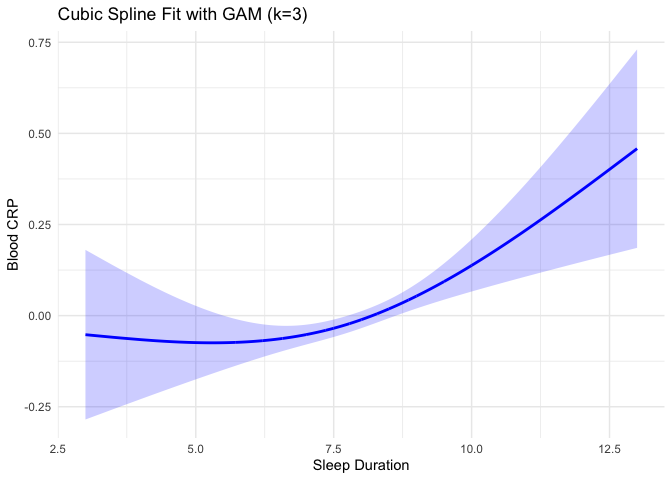
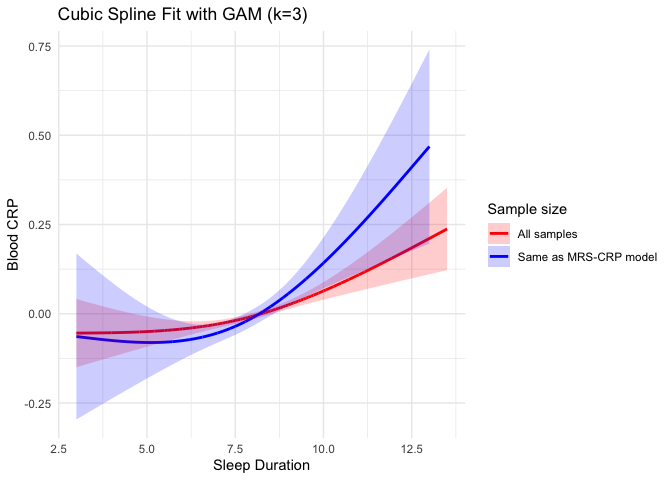
update

diff --git a/Secondary-Analysis.html b/Secondary-Analysis.html
@@ -808,11 +808,15 @@ names(ev5)[2] &lt;- &#39;SOL_ID&#39;
 sdata&lt;-merge(sdata,ev5[,c(2,5:9)],by=&#39;SOL_ID&#39;)
 sdata&lt;-sdata[complete.cases(sdata$SLPDUR),]
 sdata&lt;-sdata[complete.cases(sdata$EV1),]
-sdata&lt;-sdata[complete.cases(sdata$BMI),]</code></pre>
+sdata&lt;-sdata[complete.cases(sdata$BMI),]
+
+sdata.all &lt;- read.csv(&#39;~/OneDrive - Beth Israel Lahey Health/2023_methCRP/Data/20240604_phen_all.csv&#39;)
+sdata.all&lt;-sdata.all[complete.cases(sdata.all$SLPDUR),]
+sdata.all&lt;-sdata.all[complete.cases(sdata.all$BMI),]</code></pre>
 </div>
 <div id="fit-model" class="section level3">
 <h3>Fit model</h3>
-<pre class="r"><code>####### Blood CRP
+<pre class="r"><code>####### MRS CRP
 mrs_gam &lt;- mgcv::gam(Zmrs_HEnet ~ s(SLPDUR,bs=&#39;cr&#39;, k=3) +AGE + GENDER + BMI + CENTER + BKGRD1_C7+ EV1 + EV2 + EV3 + EV4 + EV5, data=sdata)
 summary(mrs_gam)</code></pre>
 <pre><code>## 
@@ -880,7 +884,7 @@ preds_df &lt;- data.frame(SLPDUR = sdata$SLPDUR,
                        upr = preds.all$fit[,11] + 1.96 * preds.all$se.fit[,11])
 #write.csv(preds_df,&#39;~/OneDrive - Beth Israel Lahey Health/2023_methCRP/Results/20240610_mrs_spline.csv&#39;,row.names = F)
 
-bld_gam &lt;- mgcv::gam(lgCrp ~ s(SLPDUR,bs=&#39;cr&#39;, k=3) +AGE + GENDER + BMI + CENTER + BKGRD1_C7+ EV1 + EV2 + EV3 + EV4 + EV5, data=sdata)
+bld_gam &lt;- mgcv::gam(lgCrp ~ s(SLPDUR,bs=&#39;cr&#39;, k=3) +AGE + GENDER + BMI + CENTER + BKGRD1_C7, data=sdata)
 summary(bld_gam)</code></pre>
 <pre><code>## 
 ## Family: gaussian 
@@ -888,45 +892,110 @@ summary(bld_gam)</code></pre>
 ## 
 ## Formula:
 ## lgCrp ~ s(SLPDUR, bs = &quot;cr&quot;, k = 3) + AGE + GENDER + BMI + CENTER + 
-##     BKGRD1_C7 + EV1 + EV2 + EV3 + EV4 + EV5
+##     BKGRD1_C7
 ## 
 ## Parametric coefficients:
-##                                        Estimate Std. Error t value Pr(&gt;|t|)    
-## (Intercept)                           -1.218830   0.232258  -5.248 1.69e-07 ***
-## AGE                                   -0.000293   0.002691  -0.109   0.9133    
-## GENDERMale                            -0.341201   0.042977  -7.939 3.28e-15 ***
-## BMI                                    0.075132   0.003645  20.612  &lt; 2e-16 ***
-## CENTERChicago                         -0.095667   0.078697  -1.216   0.2243    
-## CENTERMiami                            0.147357   0.098907   1.490   0.1364    
-## CENTERSan Diego                       -0.115050   0.101003  -1.139   0.2548    
-## BKGRD1_C7Cuban                        -0.071974   0.140078  -0.514   0.6074    
-## BKGRD1_C7Domician                     -0.170872   0.148244  -1.153   0.2492    
-## BKGRD1_C7Mexican                      -0.043418   0.159010  -0.273   0.7848    
-## BKGRD1_C7More than one/Other heritage -0.038858   0.192115  -0.202   0.8397    
-## BKGRD1_C7Puerto Rican                 -0.058241   0.176881  -0.329   0.7420    
-## BKGRD1_C7South American                0.034584   0.133266   0.260   0.7953    
-## EV1                                   -9.351567   4.862933  -1.923   0.0546 .  
-## EV2                                    2.935362   2.515771   1.167   0.2434    
-## EV3                                    0.492921   4.995970   0.099   0.9214    
-## EV4                                   -5.340681   4.718663  -1.132   0.2578    
-## EV5                                   -1.435045   3.405111  -0.421   0.6735    
+##                                         Estimate Std. Error t value Pr(&gt;|t|)
+## (Intercept)                           -1.352e+00  2.133e-01  -6.338 2.84e-10
+## AGE                                    9.346e-05  2.687e-03   0.035   0.9723
+## GENDERMale                            -3.369e-01  4.287e-02  -7.860 6.07e-15
+## BMI                                    7.528e-02  3.629e-03  20.743  &lt; 2e-16
+## CENTERChicago                         -9.632e-02  7.704e-02  -1.250   0.2113
+## CENTERMiami                            1.733e-01  9.428e-02   1.838   0.0662
+## CENTERSan Diego                       -7.898e-02  9.722e-02  -0.812   0.4167
+## BKGRD1_C7Cuban                         7.131e-02  8.842e-02   0.806   0.4201
+## BKGRD1_C7Domician                     -1.808e-03  1.092e-01  -0.017   0.9868
+## BKGRD1_C7Mexican                      -6.191e-03  9.649e-02  -0.064   0.9488
+## BKGRD1_C7More than one/Other heritage  1.244e-01  1.651e-01   0.753   0.4513
+## BKGRD1_C7Puerto Rican                  1.858e-01  9.509e-02   1.954   0.0509
+## BKGRD1_C7South American                8.754e-04  9.906e-02   0.009   0.9929
+##                                          
+## (Intercept)                           ***
+## AGE                                      
+## GENDERMale                            ***
+## BMI                                   ***
+## CENTERChicago                            
+## CENTERMiami                           .  
+## CENTERSan Diego                          
+## BKGRD1_C7Cuban                           
+## BKGRD1_C7Domician                        
+## BKGRD1_C7Mexican                         
+## BKGRD1_C7More than one/Other heritage    
+## BKGRD1_C7Puerto Rican                 .  
+## BKGRD1_C7South American                  
 ## ---
 ## Signif. codes:  0 &#39;***&#39; 0.001 &#39;**&#39; 0.01 &#39;*&#39; 0.05 &#39;.&#39; 0.1 &#39; &#39; 1
 ## 
 ## Approximate significance of smooth terms:
-##             edf Ref.df     F p-value   
-## s(SLPDUR) 1.765  1.945 6.139 0.00147 **
+##             edf Ref.df     F  p-value    
+## s(SLPDUR) 1.764  1.944 6.623 0.000929 ***
 ## ---
 ## Signif. codes:  0 &#39;***&#39; 0.001 &#39;**&#39; 0.01 &#39;*&#39; 0.05 &#39;.&#39; 0.1 &#39; &#39; 1
 ## 
-## R-sq.(adj) =   0.22   Deviance explained = 22.7%
-## GCV = 0.86432  Scale est. = 0.8563    n = 2130</code></pre>
+## R-sq.(adj) =   0.22   Deviance explained = 22.5%
+## GCV =  0.863  Scale est. = 0.85702   n = 2130</code></pre>
 <pre class="r"><code>preds.all &lt;- predict(bld_gam, newdata = sdata, type = &#39;terms&#39;, se.fit = TRUE)
 preds_df &lt;- data.frame(SLPDUR = sdata$SLPDUR, 
-                       fit = preds.all$fit[,11], 
-                       lwr = preds.all$fit[,11] - 1.96 * preds.all$se.fit[,11], 
-                       upr = preds.all$fit[,11] + 1.96 * preds.all$se.fit[,11])
-#write.csv(preds_df,&#39;~/OneDrive - Beth Israel Lahey Health/2023_methCRP/Results/20240610_blood_spline.csv&#39;,row.names = F)</code></pre>
+                       fit = preds.all$fit[,6], 
+                       lwr = preds.all$fit[,6] - 1.96 * preds.all$se.fit[,6], 
+                       upr = preds.all$fit[,6] + 1.96 * preds.all$se.fit[,6])
+
+bld_gam.all &lt;- mgcv::gam(lgCrp ~ s(SLPDUR,bs=&#39;cr&#39;, k=3) +AGE + GENDER + BMI + CENTER + BKGRD1_C7, data=sdata.all)
+summary(bld_gam.all)</code></pre>
+<pre><code>## 
+## Family: gaussian 
+## Link function: identity 
+## 
+## Formula:
+## lgCrp ~ s(SLPDUR, bs = &quot;cr&quot;, k = 3) + AGE + GENDER + BMI + CENTER + 
+##     BKGRD1_C7
+## 
+## Parametric coefficients:
+##                                         Estimate Std. Error t value Pr(&gt;|t|)
+## (Intercept)                           -2.0924440  0.0571877 -36.589  &lt; 2e-16
+## AGE                                    0.0079712  0.0005662  14.079  &lt; 2e-16
+## GENDERMale                            -0.3103345  0.0158998 -19.518  &lt; 2e-16
+## BMI                                    0.0854092  0.0012946  65.974  &lt; 2e-16
+## CENTERChicago                         -0.0304370  0.0288033  -1.057  0.29066
+## CENTERMiami                            0.1393522  0.0353250   3.945 8.02e-05
+## CENTERSan Diego                       -0.0529580  0.0340419  -1.556  0.11981
+## BKGRD1_C7Cuban                         0.0583416  0.0331736   1.759  0.07865
+## BKGRD1_C7Domician                     -0.0190898  0.0424763  -0.449  0.65313
+## BKGRD1_C7Mexican                       0.0451545  0.0347426   1.300  0.19373
+## BKGRD1_C7More than one/Other heritage -0.0078915  0.0516511  -0.153  0.87857
+## BKGRD1_C7Puerto Rican                  0.1145156  0.0361524   3.168  0.00154
+## BKGRD1_C7South American               -0.0688466  0.0385003  -1.788  0.07376
+##                                          
+## (Intercept)                           ***
+## AGE                                   ***
+## GENDERMale                            ***
+## BMI                                   ***
+## CENTERChicago                            
+## CENTERMiami                           ***
+## CENTERSan Diego                          
+## BKGRD1_C7Cuban                        .  
+## BKGRD1_C7Domician                        
+## BKGRD1_C7Mexican                         
+## BKGRD1_C7More than one/Other heritage    
+## BKGRD1_C7Puerto Rican                 ** 
+## BKGRD1_C7South American               .  
+## ---
+## Signif. codes:  0 &#39;***&#39; 0.001 &#39;**&#39; 0.01 &#39;*&#39; 0.05 &#39;.&#39; 0.1 &#39; &#39; 1
+## 
+## Approximate significance of smooth terms:
+##             edf Ref.df     F  p-value    
+## s(SLPDUR) 1.771  1.947 11.76 8.26e-06 ***
+## ---
+## Signif. codes:  0 &#39;***&#39; 0.001 &#39;**&#39; 0.01 &#39;*&#39; 0.05 &#39;.&#39; 0.1 &#39; &#39; 1
+## 
+## R-sq.(adj) =  0.271   Deviance explained = 27.2%
+## GCV = 0.90515  Scale est. = 0.90428   n = 15350</code></pre>
+<pre class="r"><code>preds.all &lt;- predict(bld_gam.all, newdata = sdata.all, type = &#39;terms&#39;, se.fit = TRUE)
+preds_df.all &lt;- data.frame(SLPDUR = sdata.all$SLPDUR, 
+                       fit = preds.all$fit[,6], 
+                       lwr = preds.all$fit[,6] - 1.96 * preds.all$se.fit[,6], 
+                       upr = preds.all$fit[,6] + 1.96 * preds.all$se.fit[,6])
+#write.csv(preds_df.all,&#39;~/OneDrive - Beth Israel Lahey Health/2023_methCRP/Results/20240610_blood_spline_all.csv&#39;,row.names = F)</code></pre>
 </div>
 </div>
 <div id="osa-with-and-without-eds" class="section level2">

diff --git a/Supplementary_Preparation.md b/Supplementary_Preparation.md
@@ -804,10 +804,19 @@ ggplot()  +
 ![](Supplementary_Preparation_files/figure-gfm/unnamed-chunk-12-1.png)<!-- -->
 
 ``` r
+### Figure S5B
 preds_df <- read.csv('~/OneDrive - Beth Israel Lahey Health/2023_methCRP/Results/20240610_blood_spline.csv')
-ggplot()  +
-  geom_line(data = preds_df, aes(x = SLPDUR, y = fit), color = "blue", size = 1) +
-  geom_ribbon(data = preds_df, aes(x = SLPDUR, ymin = lwr, ymax = upr), alpha = 0.2, fill = "blue") +
+preds_df$group <- "Same as MRS-CRP model"
+
+preds_df.all <- read.csv('~/OneDrive - Beth Israel Lahey Health/2023_methCRP/Results/20240610_blood_spline_all.csv')
+preds_df.all$group <- "All samples"
+combined_df <- rbind(preds_df, preds_df.all)
+
+ggplot() +
+  geom_line(data = combined_df, aes(x = SLPDUR, y = fit, color = group), size = 1) +
+  geom_ribbon(data = combined_df, aes(x = SLPDUR, ymin = lwr, ymax = upr, fill = group), alpha = 0.2) +
+  scale_color_manual(values = c("red", "blue"), name = "Sample size") +
+  scale_fill_manual(values = c("red", "blue"), name = "Sample size") +
   labs(title = "Cubic Spline Fit with GAM (k=3)",
        x = "Sleep Duration",
        y = "Blood CRP") +
